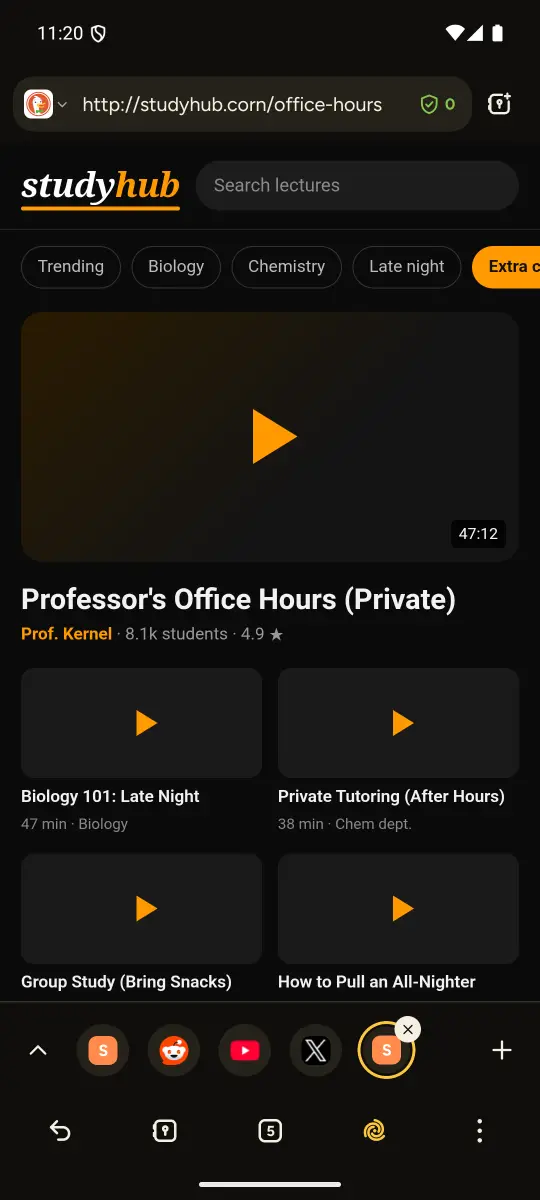
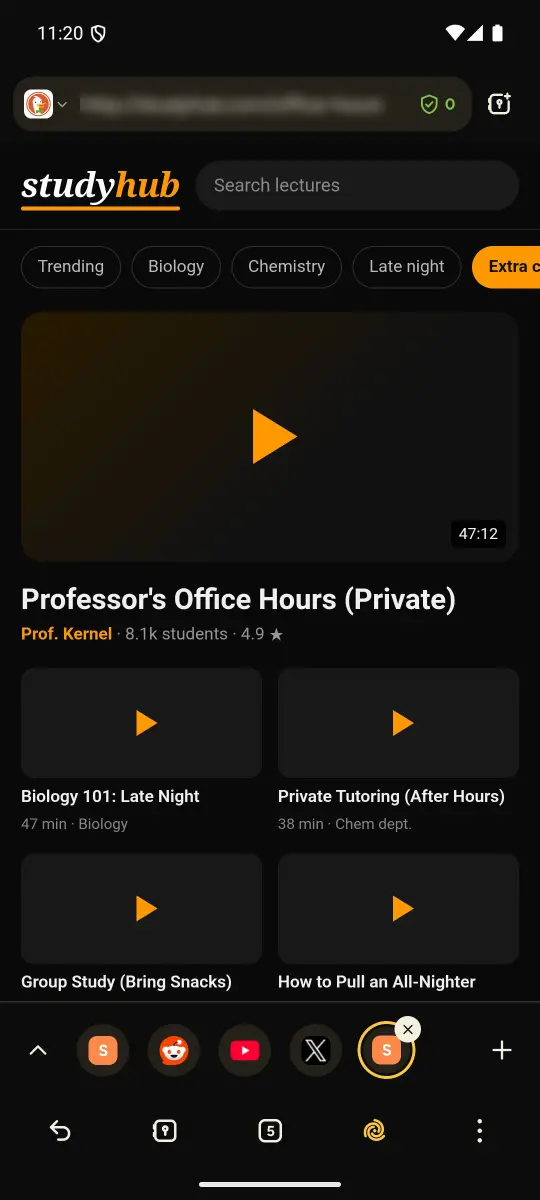
Landing page: tour plays on with a pause button, snappier pacing, StudyHub address blurred
- Tour no longer pauses on hover or touch; a pause/play button (labelled, pressed state)
  sits with the step buttons, which are centred when stacked
- Shorter holds and quicker transitions per step
- Phones: Corny and his line sit under the screenshot, clear of the app's screen
- The made-up StudyHub page's address is blurred in the screenshots where it showed

Changed region(s): [[0.1481, 0.0617, 0.7111, 0.0925]]

diff --git a/site/index.html b/site/index.html
@@ -99,10 +99,13 @@
   .tour .sub { max-width: 42ch; }
   .stops { display: flex; flex-wrap: wrap; gap: 8px; margin: 0; padding: 0; list-style: none; }
   .stops button { font: inherit; font-size: 14px; font-weight: 700; color: var(--muted); background: transparent; border: 1px solid var(--line); border-radius: 999px; padding: 7px 14px; cursor: pointer; }
+  .stops .pp { width: 36px; height: 36px; padding: 0; display: grid; place-items: center; color: var(--text); }
+  .stops .pp[hidden] { display: none; }
+  .stops button:focus-visible { outline: 2px solid var(--accent); outline-offset: 2px; }
   .stops button[aria-current="true"] { background: var(--corn); border-color: var(--corn); color: var(--ink); }
   .stage { position: relative; width: min(390px, 100%); justify-self: center; padding: 0 0 8px; }
   .tphone { position: relative; width: min(270px, 66vw); margin: 0 auto; aspect-ratio: 540 / 1200; border-radius: 34px; overflow: hidden; border: 1px solid var(--line); background: #0F0E0B; box-shadow: 0 24px 60px rgba(0, 0, 0, .35); }
-  .tphone img { position: absolute; inset: 0; width: 100%; height: 100%; object-fit: cover; opacity: 0; transition: opacity .45s ease; }
+  .tphone img { position: absolute; inset: 0; width: 100%; height: 100%; object-fit: cover; opacity: 0; transition: opacity .3s ease; }
   .tphone img.on { opacity: 1; }
   .vortex { position: absolute; left: 50%; top: 55%; width: 200%; aspect-ratio: 1; translate: -50% -50%; border-radius: 50%; opacity: 0; pointer-events: none;
     background: repeating-conic-gradient(from 0deg, #FFC83D 0 22deg, #120d02 22deg 40deg, #ffdf7a 40deg 46deg, #120d02 46deg 60deg);
@@ -156,7 +159,12 @@
     .hero, .demo, .promise, .tour { grid-template-columns: 1fr; }
     .tour { gap: 32px; }
     .tour > div:last-child { order: -1; }
-    .peek { width: 84px; right: 0; } .peek .cob { width: 84px; }
+    .stops { justify-content: center; }
+    .tour > div:last-child { text-align: left; }
+    .peek { position: relative; right: auto; bottom: auto; width: auto; display: flex; align-items: center; justify-content: center; gap: 10px; margin-top: 14px; }
+    .peek .cob { width: 72px; flex: none; }
+    .say { position: static; order: 2; margin: 0; max-width: none; white-space: nowrap; border-radius: 14px 14px 14px 4px; }
+    .tcap { margin-top: 8px; }
     .demo { gap: 36px; }
     .shotwrap { margin: 0; }
     .demo-copy { padding-top: 0; }
@@ -259,6 +267,7 @@
         <li><button type="button" data-go="5">Split</button></li>
         <li><button type="button" data-go="6">Group</button></li>
         <li><button type="button" data-go="7">Flush</button></li>
+        <li><button type="button" class="pp" id="tourPlay" aria-label="Pause the tour" aria-pressed="false"><svg class="i-pause" width="16" height="16" viewBox="0 0 24 24" aria-hidden="true"><path d="M8 5v14M16 5v14" stroke="currentColor" stroke-width="3" stroke-linecap="round"/></svg><svg class="i-play" width="16" height="16" viewBox="0 0 24 24" aria-hidden="true" style="display:none"><path d="M8 5.5v13l11-6.5z" fill="currentColor" stroke="currentColor" stroke-width="2" stroke-linejoin="round"/></svg></button></li>
       </ul>
     </div>
   </div>
@@ -391,15 +400,15 @@
   // The tour: real screenshots of Corn on a loop, with a wiggle, popping kernels and Corny reacting.
   (() => {
     const F = [
-      { cap: "Tabs pile up.", sub: "Open a link in a tab group and it lands on the Tab Group Strip.", m: "smug", say: "Just two tabs. Innocent.", t: 2600, stop: 0 },
-      { cap: "…and up.", sub: "Each one gets a round icon on the strip.", m: "nerd", say: "Research. Obviously.", t: 2000, stop: 0 },
-      { cap: "…and up.", sub: "YouTube, Reddit, X: the usual suspects.", m: "nervous", say: "Uh. Four?", t: 2000, stop: 0 },
-      { cap: "Five deep in “Homework”.", sub: "It happens to the best of us.", m: "shock", say: "FIVE?!", t: 2600, stop: 0 },
-      { cap: "One tap to switch.", sub: "Tap an icon on the strip and you're there. No hunting.", m: "cheer", say: "Boom. Back.", t: 2800, stop: 1 },
-      { cap: "Two at once.", sub: "Menu → Split screen: two tabs, top and bottom.", m: "smug", say: "Multitasking. Sure.", t: 3200, stop: 2 },
-      { cap: "The whole group, one tap away.", sub: "Tap ^ to see every tab, save the group to the Vault or add a tab.", m: "nerd", say: "Very organised.", t: 3000, stop: 3 },
-      { cap: "Done? Flush.", sub: "One tap wipes every tab and group.", m: "nervous", say: "Someone's coming…", t: 2200, stop: 4 },
-      { cap: "Clean slate.", sub: "Your Vault, favourites and Keep List stay put.", m: "angel", say: "Phew.", t: 3400, stop: 4 },
+      { cap: "Tabs pile up.", sub: "Open a link in a tab group and it lands on the Tab Group Strip.", m: "smug", say: "Just two tabs. Innocent.", t: 1900, stop: 0 },
+      { cap: "…and up.", sub: "Each one gets a round icon on the strip.", m: "nerd", say: "Research. Obviously.", t: 1400, stop: 0 },
+      { cap: "…and up.", sub: "YouTube, Reddit, X: the usual suspects.", m: "nervous", say: "Uh. Four?", t: 1400, stop: 0 },
+      { cap: "Five deep in “Homework”.", sub: "It happens to the best of us.", m: "shock", say: "FIVE?!", t: 1900, stop: 0 },
+      { cap: "One tap to switch.", sub: "Tap an icon on the strip and you're there. No hunting.", m: "cheer", say: "Boom. Back.", t: 2200, stop: 1 },
+      { cap: "Two at once.", sub: "Menu → Split screen: two tabs, top and bottom.", m: "smug", say: "Multitasking. Sure.", t: 2600, stop: 2 },
+      { cap: "The whole group, one tap away.", sub: "Tap ^ to see every tab, save the group to the Vault or add a tab.", m: "nerd", say: "Very organised.", t: 2400, stop: 3 },
+      { cap: "Done? Flush.", sub: "One tap wipes every tab and group.", m: "nervous", say: "Someone's coming…", t: 1700, stop: 4 },
+      { cap: "Clean slate.", sub: "Your Vault, favourites and Keep List stay put.", m: "angel", say: "Phew.", t: 2700, stop: 4 },
     ];
     const phone = document.getElementById("tphone"), imgs = [...phone.querySelectorAll("img")];
     const tcap = document.getElementById("tcap"), say = document.getElementById("say"), face = document.getElementById("face");
@@ -428,7 +437,7 @@
           { transform: "translate(0,0) scale(.3) rotate(0)", opacity: 1 },
           { transform: `translate(${dx}px, ${dy}px) scale(1) rotate(${rot / 2}deg)`, opacity: 1, offset: 0.55 },
           { transform: `translate(${dx * 1.15}px, ${dy + 90}px) scale(.8) rotate(${rot}deg)`, opacity: 0 },
-        ], { duration: 900 + Math.random() * 300, easing: "cubic-bezier(.2,.7,.3,1)" }).onfinish = () => el.remove();
+        ], { duration: 650 + Math.random() * 250, easing: "cubic-bezier(.2,.7,.3,1)" }).onfinish = () => el.remove();
       }
     }
 
@@ -445,17 +454,17 @@
       if (n === 8 && prev === 7) {
         imgs[7].classList.add("on");
         imgs[7].animate([{ transform: "none", opacity: 1 }, { transform: "rotate(-260deg) scale(.04)", opacity: 0 }],
-          { duration: 1000, easing: "cubic-bezier(.55,0,.75,.1)" }).onfinish = () => imgs[7].classList.remove("on");
+          { duration: 800, easing: "cubic-bezier(.55,0,.75,.1)" }).onfinish = () => imgs[7].classList.remove("on");
         vortex.animate([{ opacity: 0, transform: "rotate(0) scale(.5)" }, { opacity: .9, offset: .3 }, { opacity: 0, transform: "rotate(-540deg) scale(1.2)" }],
-          { duration: 1200, easing: "ease-out" });
+          { duration: 950, easing: "ease-out" });
       } else {
-        phone.animate(wiggles[n % wiggles.length], { duration: 650, easing: "cubic-bezier(.3,1.4,.5,1)" });
+        phone.animate(wiggles[n % wiggles.length], { duration: 480, easing: "cubic-bezier(.3,1.4,.5,1)" });
       }
       if (n <= 4) imgs[n].animate([{ transform: "scale(1)" }, { transform: "scale(1.05)" }], { duration: f.t, easing: "ease-out", fill: "forwards" });
       tcap.animate([{ transform: "scale(.6) rotate(-4deg)", opacity: 0 }, { transform: "scale(1.08) rotate(1deg)", opacity: 1, offset: .6 }, { transform: "none", opacity: 1 }],
-        { duration: 520, easing: "ease-out" });
+        { duration: 380, easing: "ease-out" });
       peek.animate([{ transform: "translate(30px, 10px) rotate(14deg)", opacity: 0 }, { transform: "translate(-4px, -8px) rotate(-6deg)", opacity: 1, offset: .6 }, { transform: "none", opacity: 1 }],
-        { duration: 600, easing: "cubic-bezier(.3,1.4,.5,1)" });
+        { duration: 450, easing: "cubic-bezier(.3,1.4,.5,1)" });
       popKernels();
     }
 
@@ -466,14 +475,22 @@
     }
 
     stops.forEach(b => b.addEventListener("click", () => { show(+b.dataset.go, !still); tick(); }));
-    stage.addEventListener("pointerenter", e => { if (e.pointerType === "mouse") { paused = true; tick(); } });
-    stage.addEventListener("pointerleave", e => { if (e.pointerType === "mouse") { paused = false; tick(); } });
+    const pp = document.getElementById("tourPlay");
+    function setPaused(v) {
+      paused = v;
+      pp.setAttribute("aria-label", v ? "Play the tour" : "Pause the tour");
+      pp.setAttribute("aria-pressed", String(v));
+      pp.querySelector(".i-pause").style.display = v ? "none" : "";
+      pp.querySelector(".i-play").style.display = v ? "" : "none";
+      tick();
+    }
+    pp.addEventListener("click", () => setPaused(!paused));
+    if (still) pp.hidden = true;
     let x0 = null;
-    stage.addEventListener("touchstart", e => { x0 = e.touches[0].clientX; paused = true; tick(); }, { passive: true });
+    stage.addEventListener("touchstart", e => { x0 = e.touches[0].clientX; }, { passive: true });
     stage.addEventListener("touchend", e => {
       const dx = x0 == null ? 0 : e.changedTouches[0].clientX - x0; x0 = null;
-      if (Math.abs(dx) > 40) show((i + (dx < 0 ? 1 : F.length - 1)) % F.length, !still);
-      paused = false; tick();
+      if (Math.abs(dx) > 40) { show((i + (dx < 0 ? 1 : F.length - 1)) % F.length, !still); tick(); }
     }, { passive: true });
     new IntersectionObserver(es => { visible = es[0].isIntersecting; tick(); }, { threshold: 0.25 }).observe(stage);
     document.addEventListener("visibilitychange", () => { visible = !document.hidden; tick(); });
